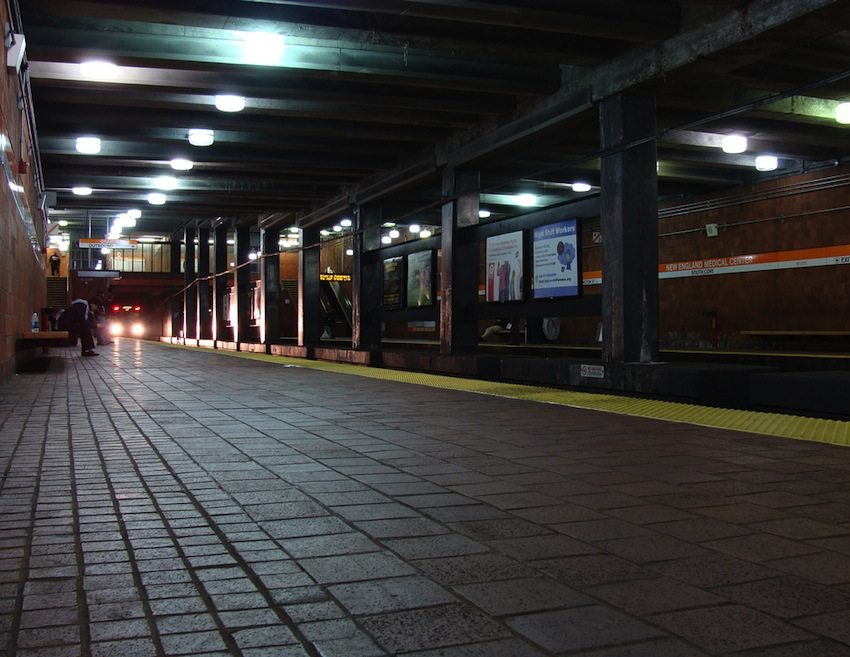
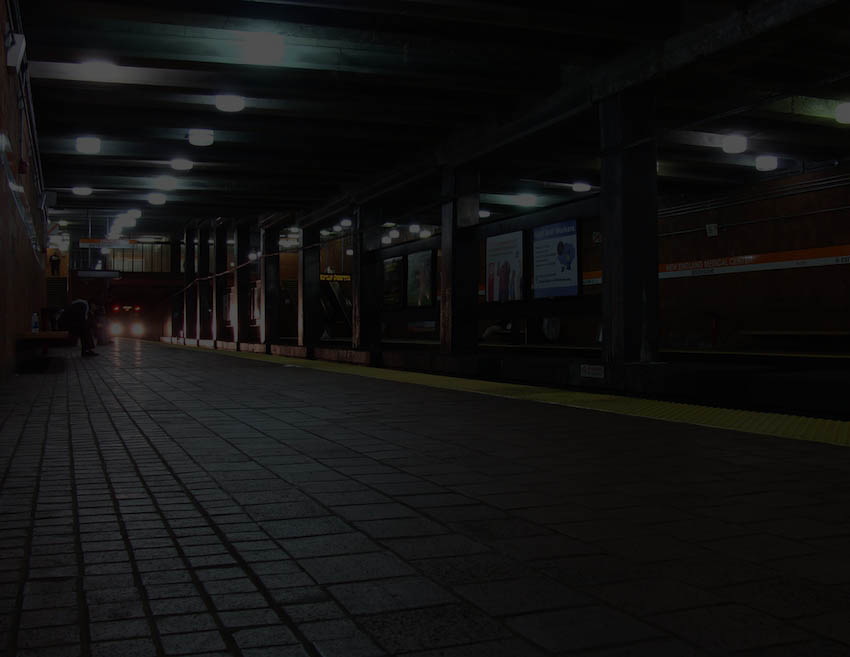
altered stop background

diff --git a/app/assets/stylesheets/application.css b/app/assets/stylesheets/application.css
@@ -42,3 +42,16 @@
 button:hover, button:focus, .button:hover, .button:focus {
   background-color: #444;
 }
+p {
+  color: #FFF;
+}
+#stopbox {
+  padding: 20px;
+  background-color: #444;
+}
+#stationbox {
+  background-color: #444;
+}
+h1 {
+  color: #FFF;
+}
